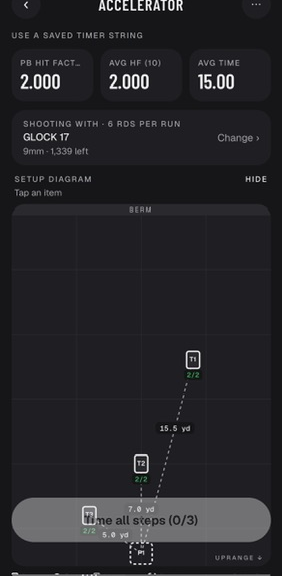
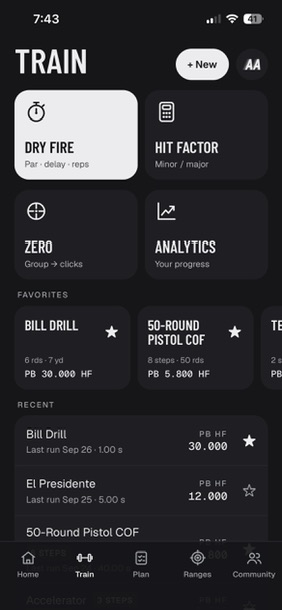
Swap hero's second screenshot to the TRAIN tab, add a real phone bezel
- assets/screenshot-train.png is now the TRAIN tab screenshot (uncropped,
  status bar and battery/signal visible), replacing the old Accelerator crop
- .phone now draws an actual bezel (padding + darker outer ring + inner
  screen radius) instead of a bare 1px outline, plus a drawn dynamic-island
  pill, matching the AA Phone.dc.html mockup component
- the behind/Train phone gets its own aspect-ratio so the full,
  uncropped screenshot isn't cover-cropped back down to the Home phone's
  (status-bar-removed) proportions

Claude-Session: https://claude.ai/code/session_01J2SLcV3QM6k2fK3cQ9wo5G

diff --git a/styles.css b/styles.css
@@ -190,14 +190,20 @@ a { color: inherit; text-decoration: none; overflow-wrap: anywhere; }
 }
 
 .phone {
-  position: absolute;
+  position: relative;
+  display: block;
+  box-sizing: border-box;
   width: 240px;
   aspect-ratio: 282 / 576;
-  border-radius: 32px;
-  overflow: hidden;
+  border-radius: 42px;
   background: #0b0b0c;
   border: 1px solid #2e2e33;
   box-shadow: 0 0 0 1px #2e2e33, 0 40px 80px -20px rgba(0,0,0,.7);
+  padding: 7px;
+}
+
+.hero-art .phone {
+  position: absolute;
 }
 
 .phone img {
@@ -205,6 +211,21 @@ a { color: inherit; text-decoration: none; overflow-wrap: anywhere; }
   width: 100%;
   height: 100%;
   object-fit: cover;
+  border-radius: 34px;
+  background: #161618;
+}
+
+.phone::after {
+  content: "";
+  position: absolute;
+  top: 18px;
+  left: 50%;
+  transform: translateX(-50%);
+  width: 62px;
+  height: 17px;
+  border-radius: 9px;
+  background: #000;
+  pointer-events: none;
 }
 
 .hero-art .behind {
@@ -213,6 +234,7 @@ a { color: inherit; text-decoration: none; overflow-wrap: anywhere; }
   opacity: .5;
   transform: scale(.9);
   transform-origin: top left;
+  aspect-ratio: 282 / 610;
 }
 
 .hero-art .front {
